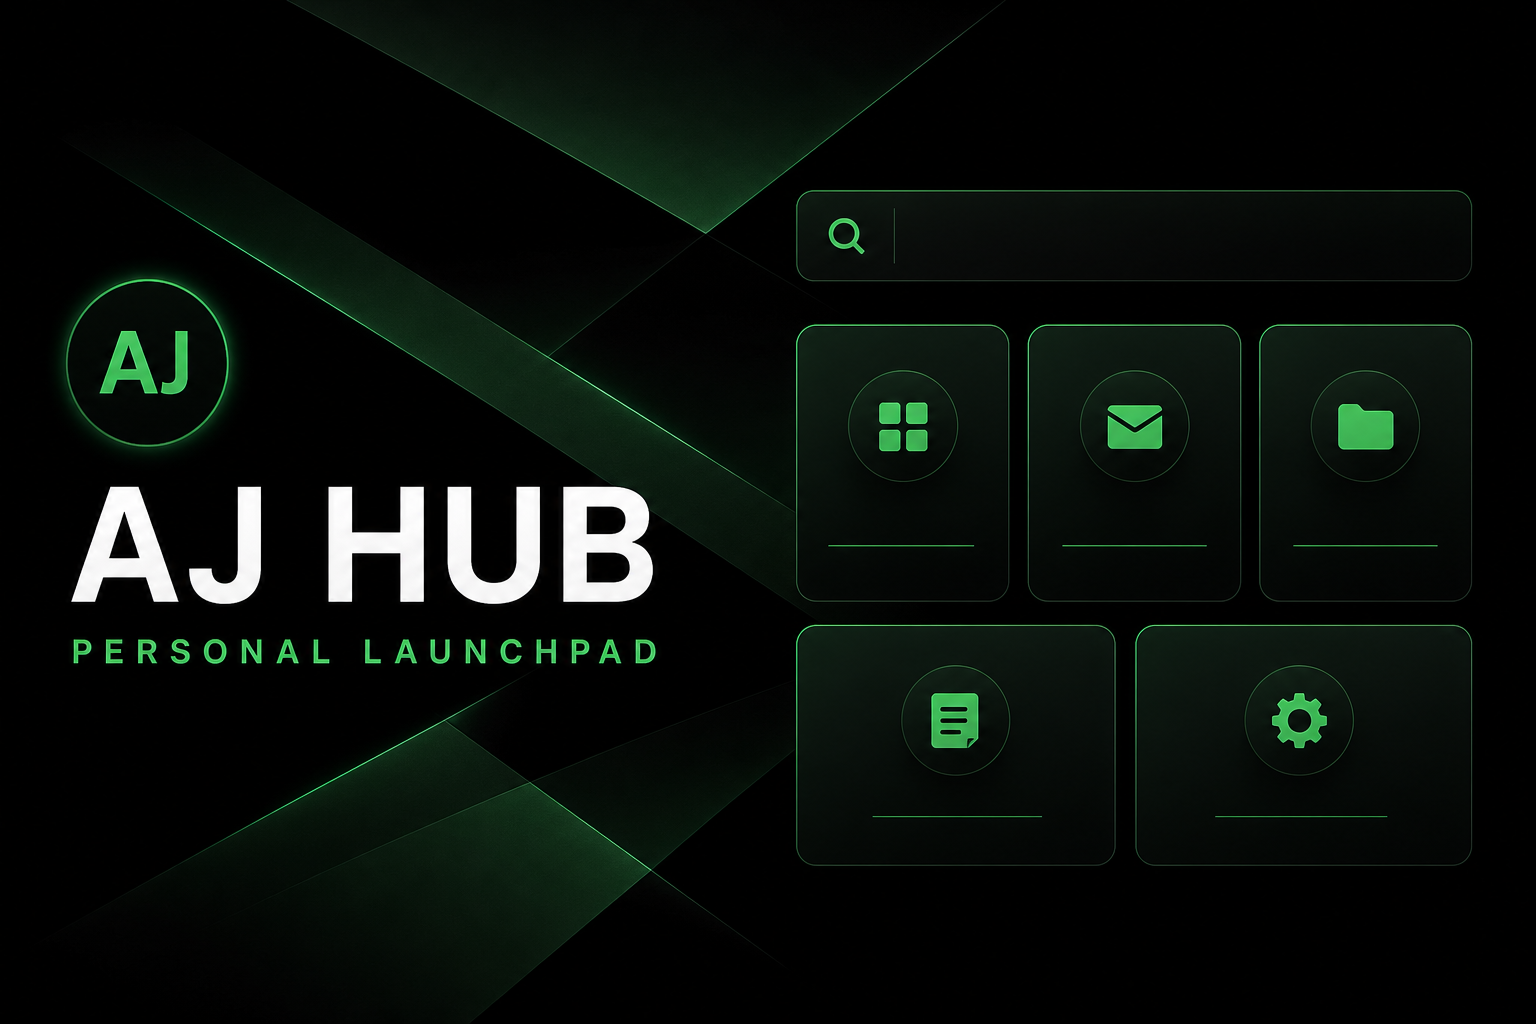
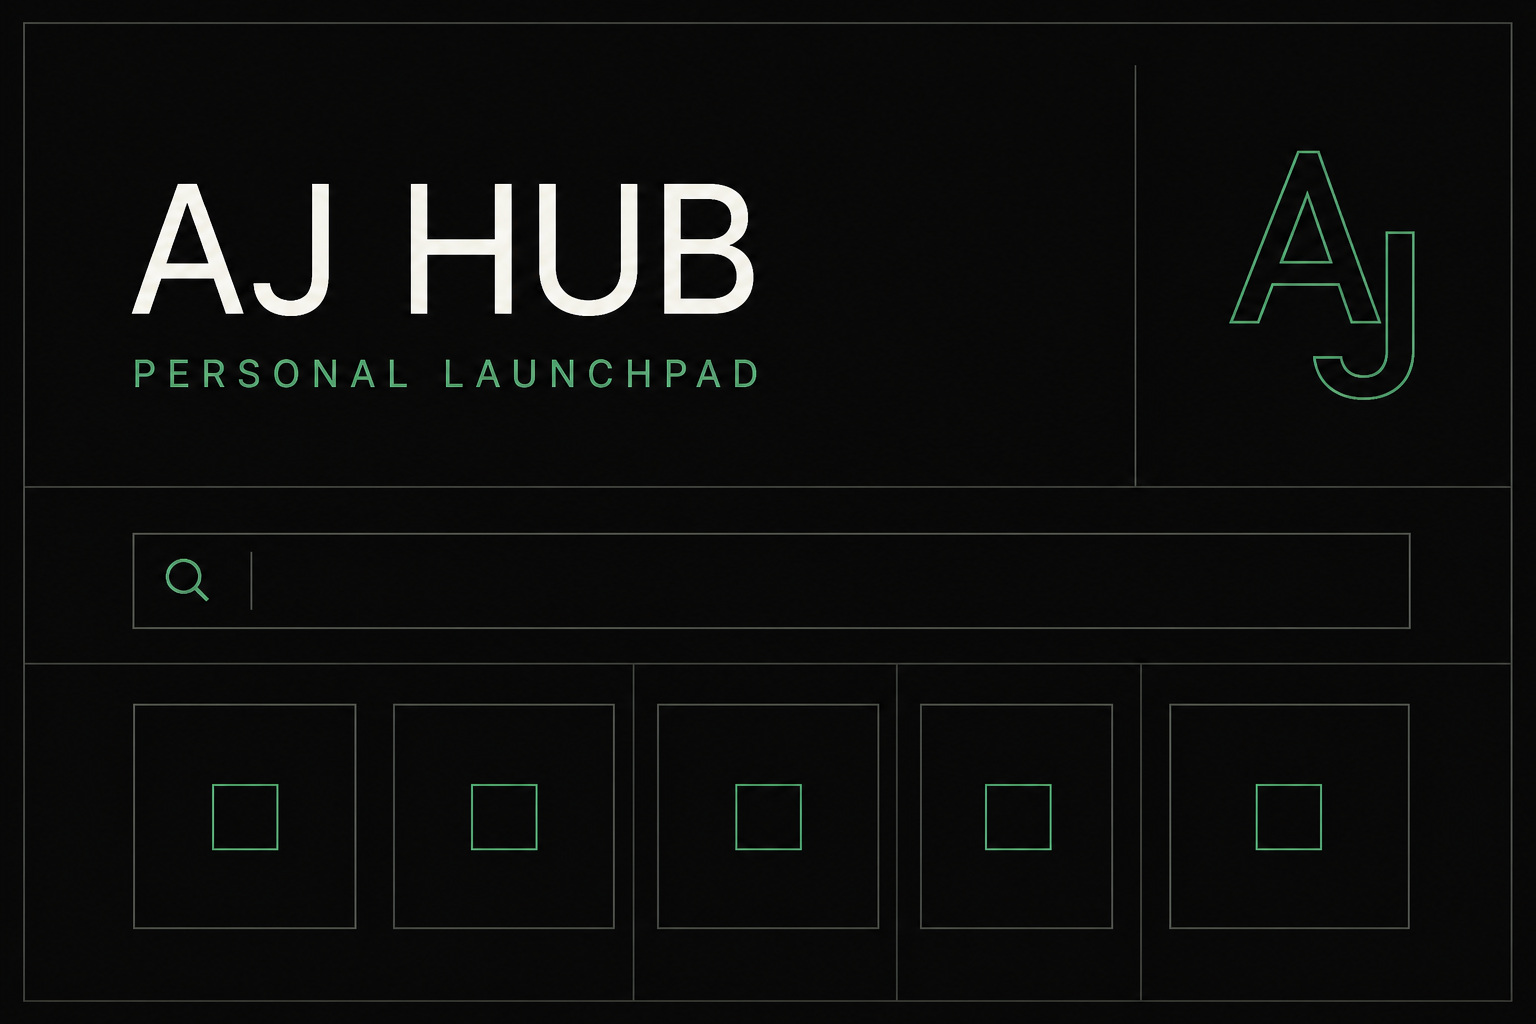
Restyle hub as a minimal control panel

diff --git a/app/globals.css b/app/globals.css
@@ -1,61 +1,56 @@
 @import "tailwindcss";
 
-:root { --bg:#020403; --panel:#07120b; --panel-2:#0a180f; --ink:#f5f7f5; --muted:#89918c; --line:#15301e; --green:#35c560; --green-soft:#153d22; }
-* { box-sizing:border-box; }
-html { background:var(--bg); }
-body { margin:0; background:var(--bg); color:var(--ink); font-family:Arial,Helvetica,sans-serif; }
-a { color:inherit; text-decoration:none; }
-main { min-height:100vh; max-width:1440px; margin:auto; padding:0 48px; position:relative; overflow:hidden; isolation:isolate; }
-main:before,main:after { content:""; position:absolute; z-index:-2; pointer-events:none; }
-main:before { width:900px; height:520px; top:-230px; left:8%; background:linear-gradient(145deg,rgba(28,76,42,.38),rgba(2,4,3,0) 68%); clip-path:polygon(16% 0,100% 0,74% 100%,0 38%); }
-main:after { width:780px; height:520px; top:170px; right:-240px; background:linear-gradient(135deg,rgba(20,62,34,.25),rgba(2,4,3,0)); clip-path:polygon(38% 0,100% 30%,72% 100%,0 68%); }
-.ambient { position:absolute; pointer-events:none; z-index:-1; }
-.ambient.one { width:500px; height:500px; background:#164328; filter:blur(130px); opacity:.18; top:-280px; left:42%; }
-.ambient.two { width:360px; height:360px; background:#1ca149; filter:blur(150px); opacity:.09; right:-140px; top:45%; }
-.topbar { height:88px; border-bottom:1px solid #132018; display:grid; grid-template-columns:1fr auto 1fr; align-items:center; position:relative; z-index:1; }
-.brand { font-size:20px; font-weight:900; letter-spacing:-1px; }
-.brand span { display:inline-grid; place-items:center; background:var(--green); color:#001706; width:36px; height:36px; margin-right:8px; border-radius:7px; font-size:14px; letter-spacing:0; box-shadow:0 0 26px rgba(53,197,96,.2); }
-.date,.status,.eyebrow,.section-heading span,footer { font:700 10px/1 var(--font-geist-mono),monospace; letter-spacing:.13em; text-transform:uppercase; }
-.date,.eyebrow,.section-heading span,footer { color:var(--muted); }
-.status { justify-self:end; display:flex; align-items:center; gap:8px; color:#a7dcb6; }
-.status i { width:7px; height:7px; border-radius:50%; background:var(--green); box-shadow:0 0 12px var(--green); }
-.hero { min-height:250px; display:flex; align-items:flex-end; justify-content:space-between; padding:50px 0 36px; }
-.eyebrow { margin:0 0 15px; color:#52d879; }
-h1 { font-size:clamp(54px,8vw,112px); line-height:.86; letter-spacing:-.07em; margin:0; font-weight:800; text-shadow:0 5px 40px rgba(0,0,0,.7); }
-.hero time { font:500 clamp(24px,4vw,54px)/1 var(--font-geist-mono),monospace; letter-spacing:-.08em; color:#dce2de; }
-.search { height:78px; border:1px solid #1d4b2b; background:linear-gradient(110deg,rgba(10,27,15,.97),rgba(5,13,8,.97)); display:grid; grid-template-columns:auto 1fr auto; align-items:center; gap:18px; padding:0 22px; border-radius:8px; box-shadow:0 22px 65px rgba(0,0,0,.52),inset 0 1px rgba(255,255,255,.025); }
-.search:focus-within { border-color:#38b65c; box-shadow:0 0 0 3px rgba(53,197,96,.09),0 22px 65px rgba(0,0,0,.52); }
-.search-icon { font-size:34px; color:var(--green); transform:rotate(-15deg); line-height:1; }
-.search input { min-width:0; border:0; background:transparent; font-size:17px; outline:0; color:var(--ink); }
-.search input::placeholder { color:#657069; }
-kbd { border:1px solid #25452e; background:#0c1c11; color:#8ec69e; padding:7px 10px; border-radius:4px; font:700 12px var(--font-geist-mono),monospace; }
-.launch-section { margin-top:62px; }
-.section-heading { display:flex; justify-content:space-between; align-items:baseline; border-bottom:1px solid #15241a; padding-bottom:13px; }
-.section-heading h2 { margin:0; font-size:18px; letter-spacing:-.035em; }
-.launch-grid { display:grid; grid-template-columns:repeat(5,1fr); gap:12px; padding-top:14px; }
-.launch-card { min-height:190px; padding:17px; border:1px solid #14291b; border-radius:9px; position:relative; display:flex; flex-direction:column; justify-content:space-between; transition:transform .2s,background .2s,border-color .2s,box-shadow .2s; background:linear-gradient(145deg,rgba(9,25,14,.92),rgba(5,10,7,.96)); overflow:hidden; }
-.launch-card:before { content:""; position:absolute; inset:0; background:linear-gradient(130deg,rgba(53,197,96,.08),transparent 42%); opacity:0; transition:opacity .2s; }
-.launch-card:hover { transform:translateY(-5px); background:#09170e; border-color:#26783d; box-shadow:0 15px 40px rgba(0,0,0,.45),0 0 28px rgba(40,170,77,.08); }
-.launch-card:hover:before { opacity:1; }
-.number { font:600 10px var(--font-geist-mono),monospace; color:#587060; position:relative; }
-.tile-icon { width:54px; height:54px; display:grid; place-items:center; border-radius:50%; font-size:20px; font-weight:900; align-self:center; color:#061009; background:var(--green)!important; box-shadow:0 0 24px rgba(53,197,96,.16),inset 0 1px rgba(255,255,255,.28); position:relative; }
-.launch-card strong { font-size:16px; position:relative; }
-.arrow { position:absolute; right:16px; bottom:16px; font-size:18px; color:var(--green); }
-.lower-grid { display:grid; grid-template-columns:1.45fr 1fr; gap:22px; margin-top:54px; }
-.project-card,.commands { border:1px solid #14291b; border-radius:9px; padding:24px; background:linear-gradient(140deg,rgba(8,23,13,.88),rgba(4,9,6,.94)); }
-.project-body { display:grid; grid-template-columns:150px 1fr; gap:30px; align-items:center; padding:30px 0 6px; }
-.orbit { width:130px; height:130px; border:1px solid #276e3b; border-radius:50%; display:grid; place-items:center; position:relative; box-shadow:inset 0 0 35px rgba(36,143,66,.08); }
-.orbit:before { content:""; position:absolute; inset:12px; border:1px dashed #1e4b2c; border-radius:50%; }
-.orbit:after { content:""; position:absolute; width:12px; height:12px; background:var(--green); border-radius:50%; top:4px; left:21px; box-shadow:0 0 15px var(--green); }
-.orbit span { width:70px; height:70px; background:var(--green); color:#041008; border-radius:50%; display:grid; place-items:center; font-size:25px; font-weight:900; box-shadow:0 0 30px rgba(53,197,96,.18); }
-.project-body p { max-width:420px; font-size:23px; letter-spacing:-.035em; line-height:1.2; margin:0 0 22px; }
-.project-body a { color:#64da83; font:700 11px var(--font-geist-mono),monospace; text-transform:uppercase; border-bottom:1px solid #287840; padding-bottom:4px; }
-.commands ul { margin:0; padding:10px 0 0; list-style:none; }
-.commands li { display:grid; grid-template-columns:50px 1fr auto; gap:14px; padding:14px 0; align-items:center; border-bottom:1px solid #14251a; font-size:13px; }
-.commands li:last-child { border-bottom:0; }
-.commands code { background:var(--green); color:#051008; width:36px; height:28px; display:grid; place-items:center; border-radius:4px; font-weight:bold; }
-.commands b { color:#647069; font-weight:400; }
-footer { border-top:1px solid #142018; padding:25px 0 32px; margin-top:45px; display:flex; justify-content:space-between; }
-@media(max-width:800px){main{padding:0 20px}.topbar{grid-template-columns:1fr auto}.date{display:none}.hero{min-height:210px;align-items:end}.hero time{font-size:24px}.launch-grid{grid-template-columns:repeat(2,1fr)}.launch-card:last-child{grid-column:span 2}.lower-grid{grid-template-columns:1fr}.project-body{grid-template-columns:95px 1fr}.orbit{width:90px;height:90px}.orbit span{width:52px;height:52px}.project-body p{font-size:18px}}
-@media(max-width:500px){h1{font-size:52px}.hero{display:block;padding-top:55px}.hero time{display:block;margin-top:22px}.search{height:66px;padding:0 15px;gap:10px}.search input{font-size:14px}.search-icon{font-size:25px}.launch-section{margin-top:48px}.launch-card{min-height:150px}.project-card,.commands{padding:18px}.project-body{grid-template-columns:1fr}.commands li{grid-template-columns:44px 1fr}.commands b{display:none}footer{gap:20px;line-height:1.4}}
+:root{--bg:#050705;--surface:#0b0f0c;--surface-2:#101611;--ink:#f2f5f2;--muted:#778078;--line:#202821;--green:#35c560;--green-dim:#183e24}
+*{box-sizing:border-box}
+html{background:var(--bg)}
+body{margin:0;background:var(--bg);color:var(--ink);font-family:Arial,Helvetica,sans-serif}
+a{color:inherit;text-decoration:none}
+main{min-height:100vh;max-width:1180px;margin:auto;padding:0 32px;position:relative}
+.ambient{display:none}
+.topbar{height:68px;border-bottom:1px solid var(--line);display:grid;grid-template-columns:1fr auto 1fr;align-items:center}
+.brand{font-size:15px;font-weight:800;letter-spacing:.08em}
+.brand span{display:inline-grid;place-items:center;width:28px;height:28px;margin-right:9px;border:1px solid var(--green);color:var(--green);font-size:11px;letter-spacing:0}
+.date,.status,.eyebrow,.section-heading span,footer{font:600 10px/1 var(--font-geist-mono),monospace;letter-spacing:.12em;text-transform:uppercase}
+.date{color:var(--muted)}
+.status{justify-self:end;display:flex;align-items:center;gap:8px;color:#a3aaa4}
+.status i{width:6px;height:6px;background:var(--green);border-radius:50%}
+.hero{min-height:170px;display:flex;align-items:center;justify-content:space-between;border-bottom:1px solid var(--line)}
+.eyebrow{color:var(--green);margin:0 0 12px}
+h1{font-size:clamp(42px,7vw,78px);line-height:.95;letter-spacing:-.06em;margin:0;font-weight:650}
+.hero time{font:400 clamp(22px,3vw,34px)/1 var(--font-geist-mono),monospace;letter-spacing:-.06em;color:#8e978f}
+.search{height:62px;border:1px solid #2b352d;background:var(--surface);display:grid;grid-template-columns:auto 1fr auto;align-items:center;gap:14px;padding:0 18px;margin-top:28px;transition:border-color .18s}
+.search:focus-within{border-color:var(--green)}
+.search-icon{font-size:25px;color:var(--green);line-height:1}
+.search input{min-width:0;border:0;background:transparent;font:400 15px var(--font-geist-sans),sans-serif;outline:0;color:var(--ink)}
+.search input::placeholder{color:#626963}
+kbd{border:1px solid #313a32;background:#151a16;color:#949d95;padding:5px 8px;border-radius:2px;font:600 11px var(--font-geist-mono),monospace}
+.launch-section{margin-top:42px}
+.section-heading{display:flex;justify-content:space-between;align-items:baseline;padding-bottom:12px}
+.section-heading h2{margin:0;font-size:13px;font-weight:650;letter-spacing:.02em;text-transform:uppercase}
+.section-heading span{color:#616a62}
+.launch-grid{display:grid;grid-template-columns:repeat(5,1fr);border-top:1px solid var(--line);border-left:1px solid var(--line)}
+.launch-card{min-height:130px;padding:15px;border-right:1px solid var(--line);border-bottom:1px solid var(--line);position:relative;display:grid;grid-template-columns:auto 1fr;grid-template-rows:auto 1fr auto;gap:8px;background:transparent;transition:background .16s}
+.launch-card:hover{background:var(--surface-2)}
+.number{font:500 9px var(--font-geist-mono),monospace;color:#59615a;grid-column:1/-1}
+.tile-icon{width:34px;height:34px;display:grid;place-items:center;border:1px solid var(--green-dim);font:700 12px var(--font-geist-mono),monospace;color:var(--green);align-self:end}
+.launch-card strong{font-size:14px;font-weight:550;align-self:end}
+.arrow{position:absolute;right:14px;top:14px;color:#566159;font-size:14px;transition:color .16s,transform .16s}
+.launch-card:hover .arrow{color:var(--green);transform:translate(2px,-2px)}
+.lower-grid{display:grid;grid-template-columns:1.3fr .7fr;border:1px solid var(--line);margin-top:36px}
+.project-card,.commands{padding:22px;background:var(--surface)}
+.commands{border-left:1px solid var(--line)}
+.project-body{display:grid;grid-template-columns:100px 1fr;gap:26px;align-items:center;padding:24px 0 4px}
+.orbit{width:88px;height:88px;border:1px solid #2a7e41;display:grid;place-items:center;position:relative}
+.orbit:after{content:"";position:absolute;width:6px;height:6px;background:var(--green);top:-3px;right:12px}
+.orbit span{font:700 20px var(--font-geist-mono),monospace;color:var(--green)}
+.project-body p{max-width:430px;font-size:19px;letter-spacing:-.025em;line-height:1.25;margin:0 0 18px}
+.project-body a{color:#8fdaA4;font:600 10px var(--font-geist-mono),monospace;text-transform:uppercase;border-bottom:1px solid #2b663a;padding-bottom:3px}
+.commands ul{margin:10px 0 0;padding:0;list-style:none}
+.commands li{display:grid;grid-template-columns:42px 1fr auto;gap:10px;padding:11px 0;align-items:center;border-bottom:1px solid var(--line);font-size:12px}
+.commands li:last-child{border-bottom:0}
+.commands code{color:var(--green);font-weight:700}
+.commands b{color:#5d655e;font-weight:400}
+footer{border-top:1px solid var(--line);padding:22px 0 28px;margin-top:36px;display:flex;justify-content:space-between;color:#59615a}
+@media(max-width:800px){main{padding:0 20px}.topbar{grid-template-columns:1fr auto}.date{display:none}.hero{min-height:150px}.hero time{font-size:20px}.launch-grid{grid-template-columns:repeat(2,1fr)}.launch-card:last-child{grid-column:span 2}.lower-grid{grid-template-columns:1fr}.commands{border-left:0;border-top:1px solid var(--line)}}
+@media(max-width:500px){h1{font-size:44px}.hero{display:block;padding:35px 0}.hero time{display:block;margin-top:18px}.search{height:58px;margin-top:20px}.search input{font-size:13px}.launch-section{margin-top:34px}.launch-card{min-height:112px}.project-body{grid-template-columns:1fr}.commands li{grid-template-columns:34px 1fr}.commands b{display:none}footer{gap:20px;line-height:1.4}}
 @media(prefers-reduced-motion:reduce){*{scroll-behavior:auto!important;transition:none!important}}

diff --git a/public/sw.js b/public/sw.js
@@ -1,4 +1,4 @@
-const CACHE = "aj-hub-v3";
+const CACHE = "aj-hub-v4";
 const CORE = ["/", "/manifest.webmanifest", "/icon-192.png", "/icon-512.png"];
 
 self.addEventListener("install", (event) => {
